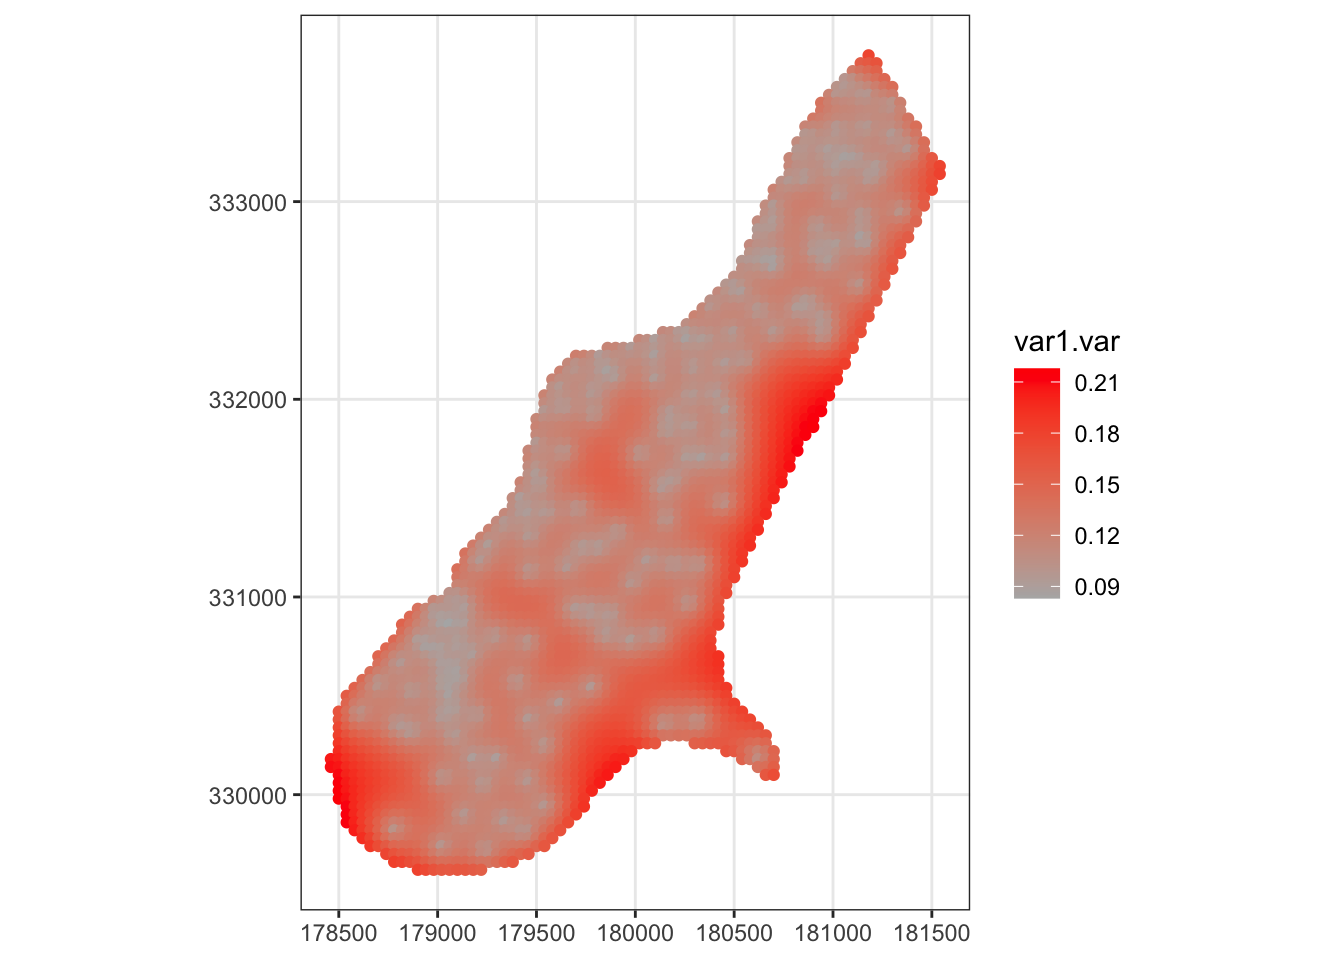
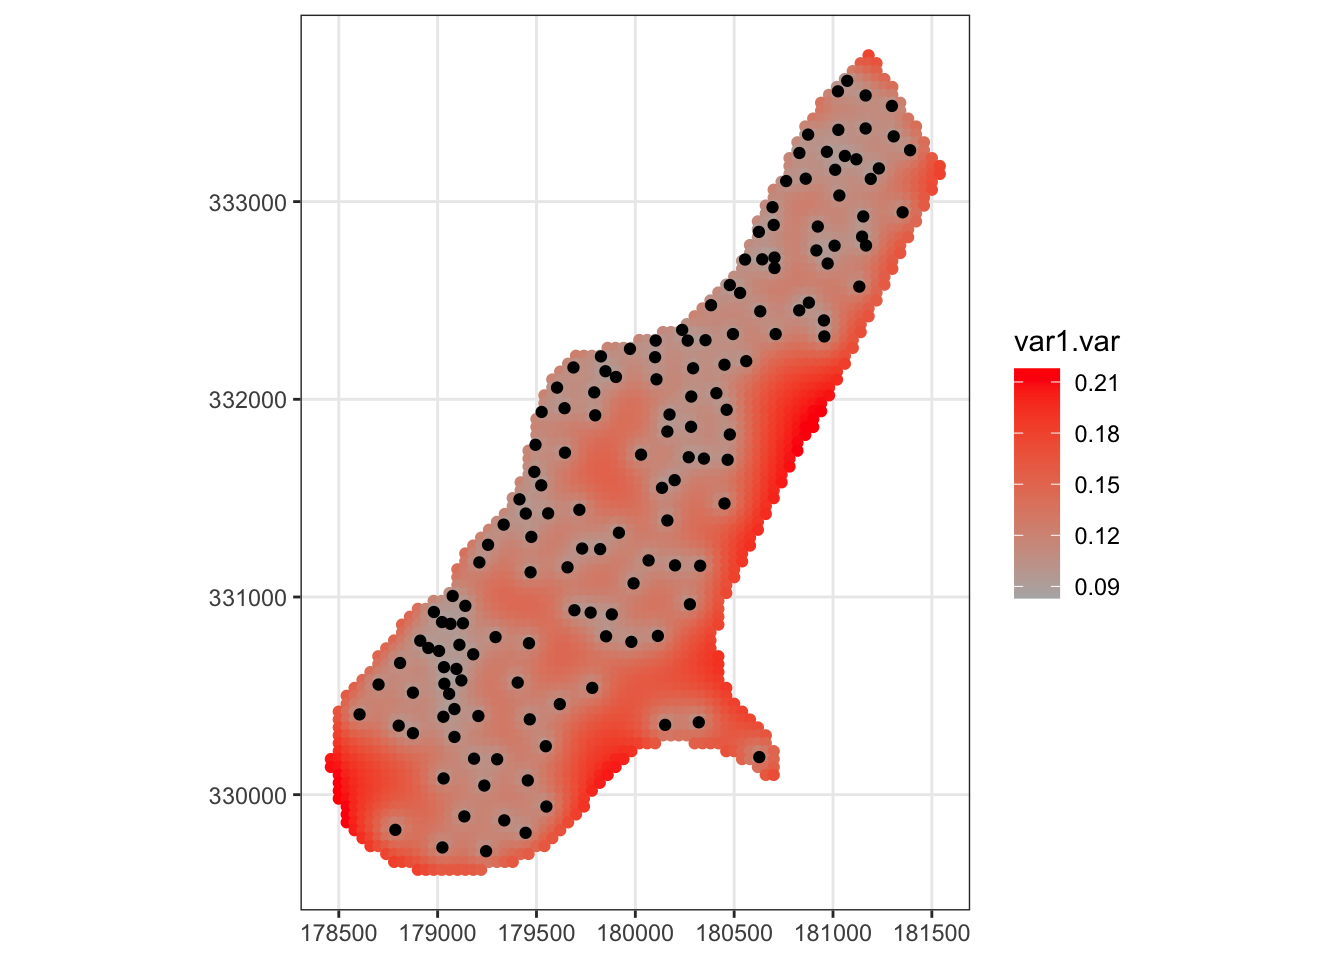
added observation locations to the Meuse kriging variance plot

diff --git a/docs/geostatistics.html b/docs/geostatistics.html
@@ -279,7 +279,8 @@ code span.wa { color: #60a0b0; font-weight: bold; font-style: italic; } /* Warni
 <span id="cb27-2"><a href="geostatistics.html#cb27-2" aria-hidden="true" tabindex="-1"></a><span class="fu">ggplot</span>( meuse_fit ) <span class="sc">+</span></span>
 <span id="cb27-3"><a href="geostatistics.html#cb27-3" aria-hidden="true" tabindex="-1"></a>  <span class="fu">geom_sf</span>( <span class="at">mapping =</span> <span class="fu">aes</span>( <span class="at">color=</span>var1.var )) <span class="sc">+</span></span>
 <span id="cb27-4"><a href="geostatistics.html#cb27-4" aria-hidden="true" tabindex="-1"></a>  <span class="fu">scale_color_gradient</span>(<span class="at">low=</span><span class="fu">grey</span>(<span class="fl">0.7</span>), <span class="at">high=</span><span class="st">&quot;red&quot;</span>) <span class="sc">+</span></span>
-<span id="cb27-5"><a href="geostatistics.html#cb27-5" aria-hidden="true" tabindex="-1"></a>  <span class="fu">theme_bw</span>()</span></code></pre></div>
+<span id="cb27-5"><a href="geostatistics.html#cb27-5" aria-hidden="true" tabindex="-1"></a>  <span class="fu">geom_sf</span>(<span class="at">data=</span>meuse) <span class="sc">+</span></span>
+<span id="cb27-6"><a href="geostatistics.html#cb27-6" aria-hidden="true" tabindex="-1"></a>  <span class="fu">theme_bw</span>()</span></code></pre></div>
 <p><img src="03_geostatistics_files/figure-html/meuse-kriging-2.png" width="672" /></p>
 <p>Note that the estimated concentration is greatest near the river, and the uncertainty of the predictions grows as you get farther away from measured data.</p>
 

diff --git a/docs/03_geostatistics.md b/docs/03_geostatistics.md
@@ -168,6 +168,7 @@ ggplot( meuse_fit ) +
 ggplot( meuse_fit ) +
   geom_sf( mapping = aes( color=var1.var )) +
   scale_color_gradient(low=grey(0.7), high="red") +
+  geom_sf(data=meuse) +
   theme_bw()
 ```
 
